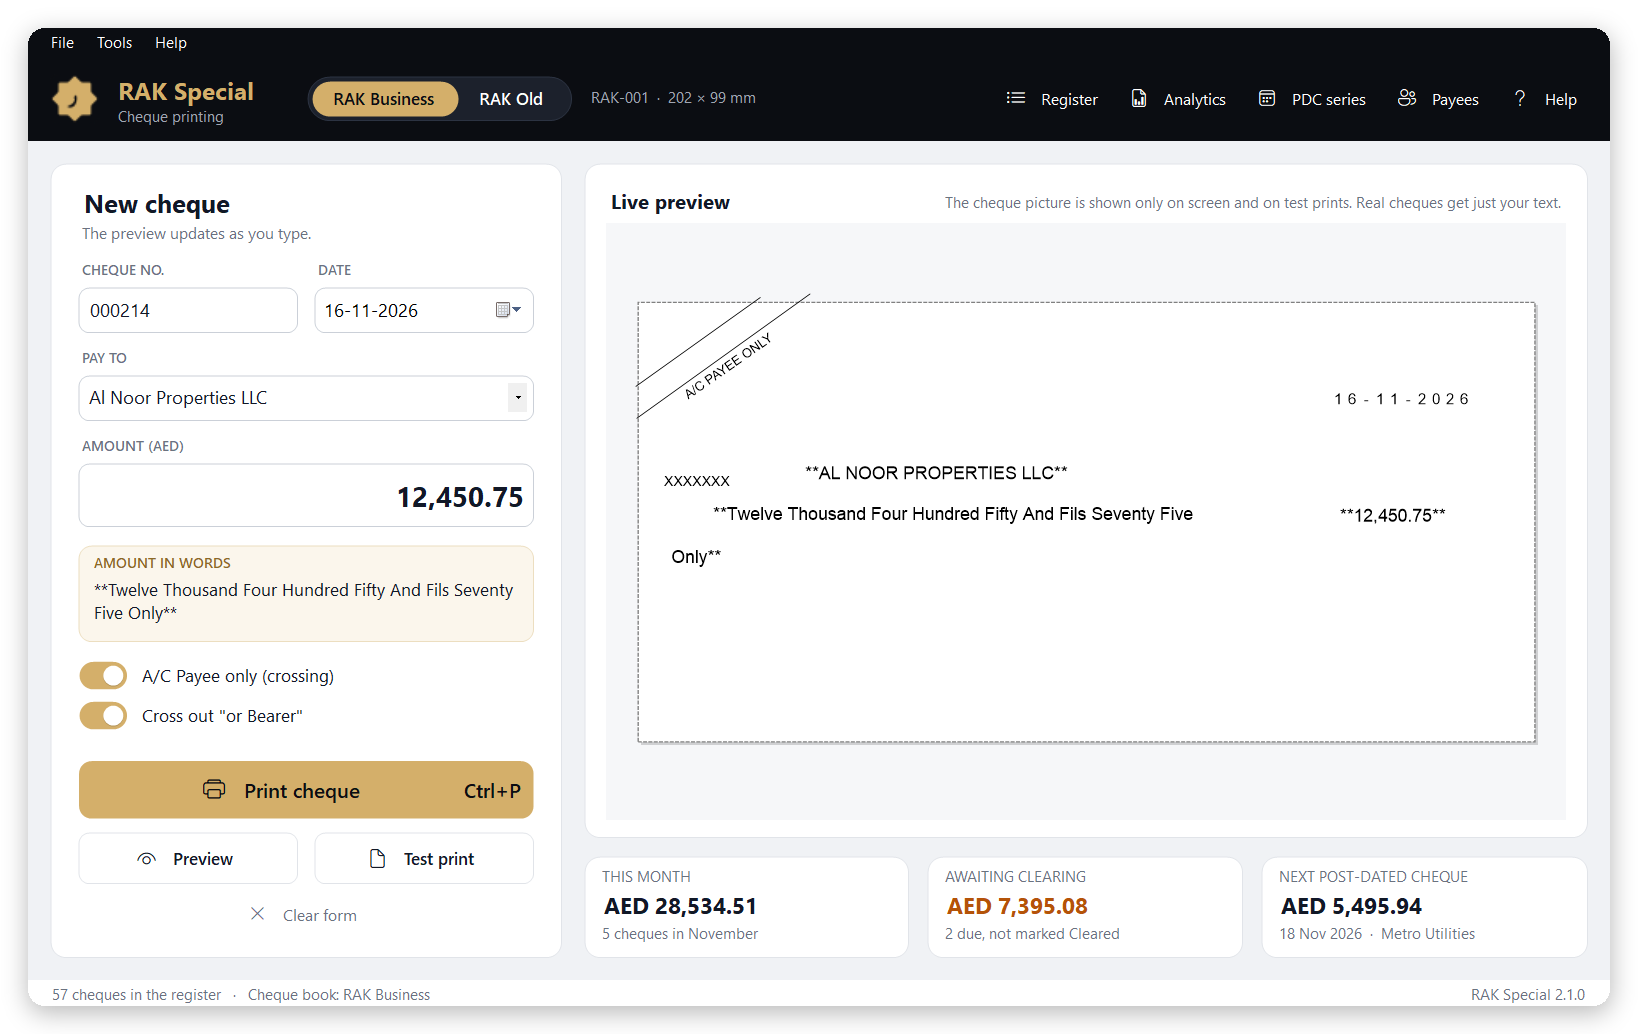
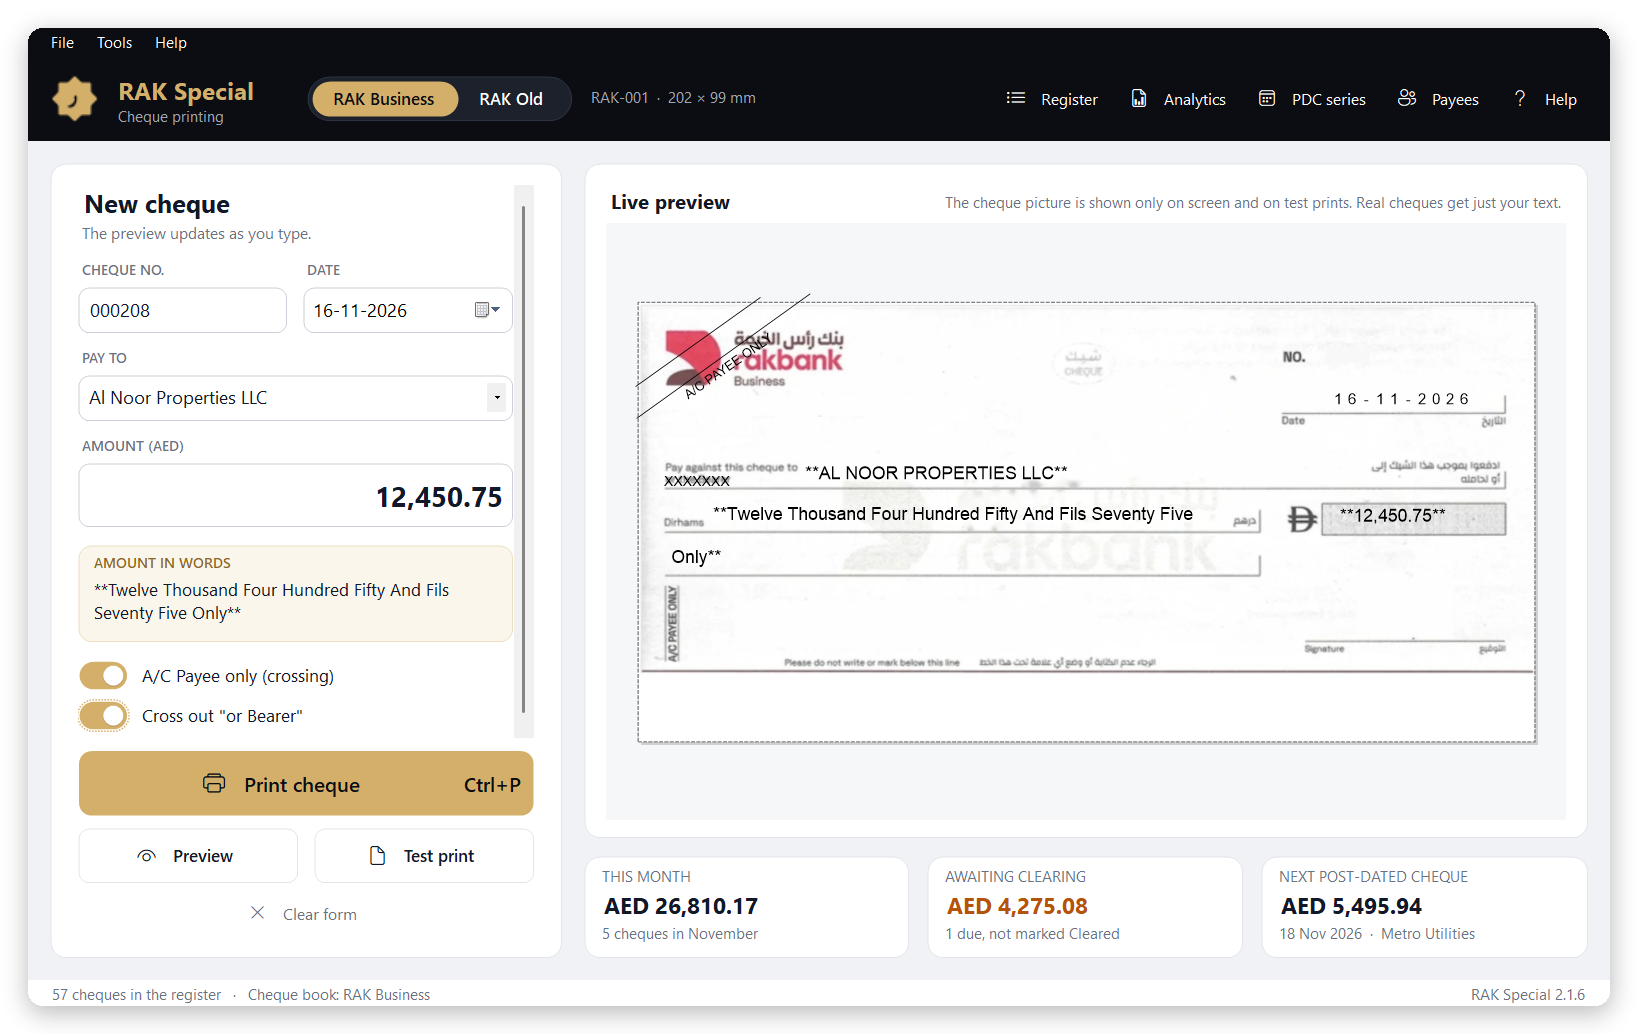
README: demo and main window show the real cheque picture
- Re-recorded demo.gif from RAK Special 2.1.6: the live preview fills in
  on the RAK Business and RAK Old cheque pictures
- New main-window.png with the cheque picture behind the preview
- Alt text and captions mention the cheque picture

diff --git a/README.md b/README.md
@@ -32,9 +32,9 @@
 
 ### ⚡ See it in action
 
-<img src="docs/readme/demo.gif" width="920" alt="RAK Special demo: typing the payee and amount, the amount in words in AED and fils appears and the live cheque preview updates, then switching between RAK Business and RAK Old cheque books">
+<img src="docs/readme/demo.gif" width="920" alt="RAK Special demo: typing the payee and amount, the amount in words in AED and fils appears and the live preview fills in on the real RAK Bank cheque picture, then switching between RAK Business and RAK Old cheque books">
 
-<sub>Real recording: type the payee and amount, and the words and the cheque preview follow live. Switch cheque books with one click.</sub>
+<sub>Real recording: type the payee and amount, and the words and the cheque preview follow live on a picture of the real cheque. Switch cheque books with one click.</sub>
 
 <br><br>
 
@@ -148,8 +148,8 @@ way**: correctly spelled, aligned to the real RAK Bank leaf, and recorded in a r
 ## 📸 Screenshots
 
 <p align="center">
-  <img src="docs/screenshots/main-window.png" width="92%" alt="RAK Special main window: New cheque form, amount in words in AED, live cheque preview and monthly totals">
-  <br><sub><b>Main window</b>: the cheque form, live preview, and this month's figures</sub>
+  <img src="docs/screenshots/main-window.png" width="92%" alt="RAK Special main window: New cheque form, amount in words in AED, live preview on the RAK Bank Business cheque picture and monthly totals">
+  <br><sub><b>Main window</b>: the cheque form, live preview on the real cheque picture, and this month's figures</sub>
 </p>
 
 <table>
